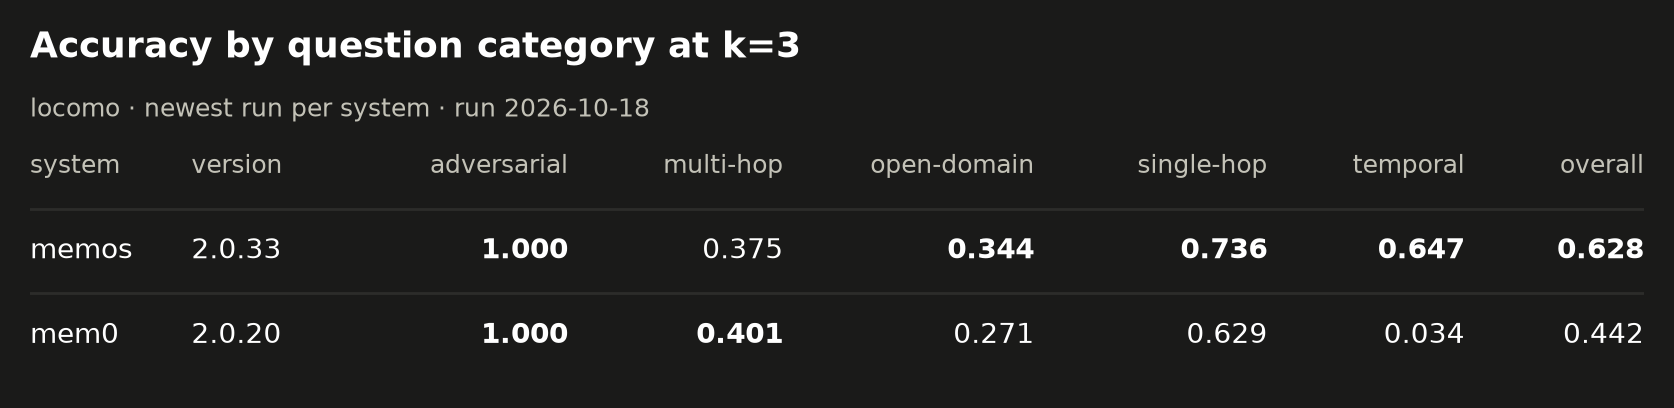
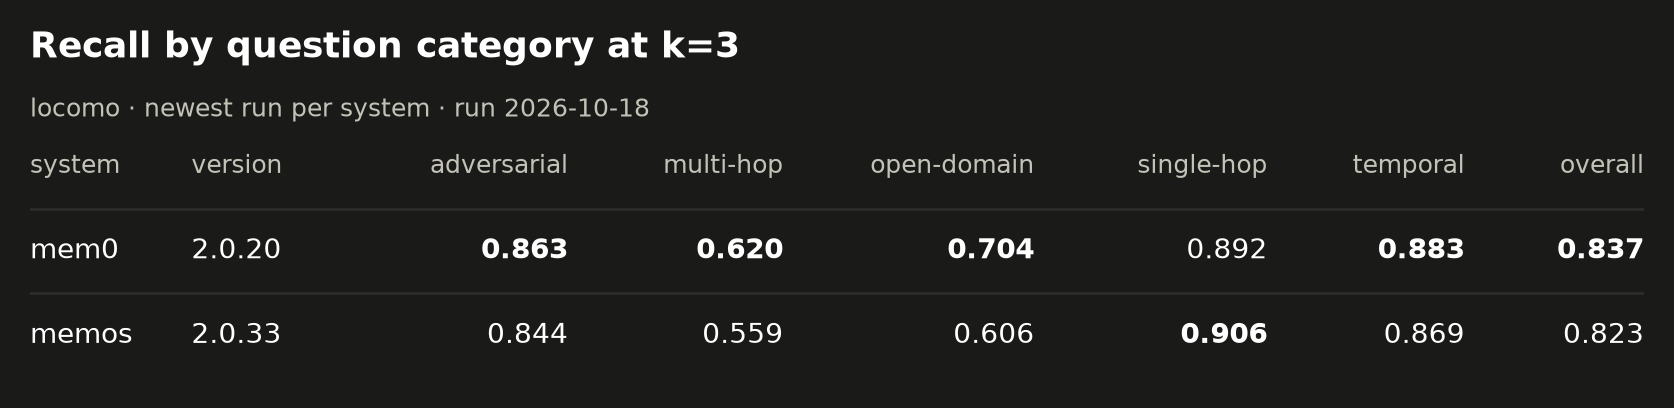
results: redraw after harness change

diff --git a/RESULTS.md b/RESULTS.md
@@ -2,7 +2,7 @@
 
 Generated by `amb report` from the runs saved under [`runs/`](runs/) — every table, chart, and line of this file. Edits here are overwritten on the next run; change the report definition in `src/amb/reporting/report.py` instead.
 
-Results from `cognee/v0.2.0` (commit `e4772ab`), run 2026-10-18.
+Results from commit `da63445`, run 2026-10-18.
 
 ## Every run
 
@@ -59,9 +59,9 @@ The breakdown table at one k, swept: whether a system is weak on a question type
 
 #### locomo: by question category (k=1)
 
-What each system is good at, not just how good it is overall. The best score in each column is bold.
+Where each system finds the evidence, not just how often overall. The best recall in each column is bold.
 
-![Judge accuracy by question category at k=1](plots/locomo/categories_k1.png)
+![Retrieval recall by question category at k=1](plots/locomo/categories_k1.png)
 
 #### locomo: system comparison (k=1)
 
@@ -89,9 +89,9 @@ Answer accuracy and retrieval recall against memory tokens spent and search late
 
 #### locomo: by question category (k=3)
 
-What each system is good at, not just how good it is overall. The best score in each column is bold.
+Where each system finds the evidence, not just how often overall. The best recall in each column is bold.
 
-![Judge accuracy by question category at k=3](plots/locomo/categories_k3.png)
+![Retrieval recall by question category at k=3](plots/locomo/categories_k3.png)
 
 #### locomo: system comparison (k=3)
 
@@ -119,9 +119,9 @@ Answer accuracy and retrieval recall against memory tokens spent and search late
 
 #### locomo: by question category (k=5)
 
-What each system is good at, not just how good it is overall. The best score in each column is bold.
+Where each system finds the evidence, not just how often overall. The best recall in each column is bold.
 
-![Judge accuracy by question category at k=5](plots/locomo/categories_k5.png)
+![Retrieval recall by question category at k=5](plots/locomo/categories_k5.png)
 
 #### locomo: system comparison (k=5)
 
@@ -149,9 +149,9 @@ Answer accuracy and retrieval recall against memory tokens spent and search late
 
 #### locomo: by question category (k=10)
 
-What each system is good at, not just how good it is overall. The best score in each column is bold.
+Where each system finds the evidence, not just how often overall. The best recall in each column is bold.
 
-![Judge accuracy by question category at k=10](plots/locomo/categories_k10.png)
+![Retrieval recall by question category at k=10](plots/locomo/categories_k10.png)
 
 #### locomo: system comparison (k=10)
 
